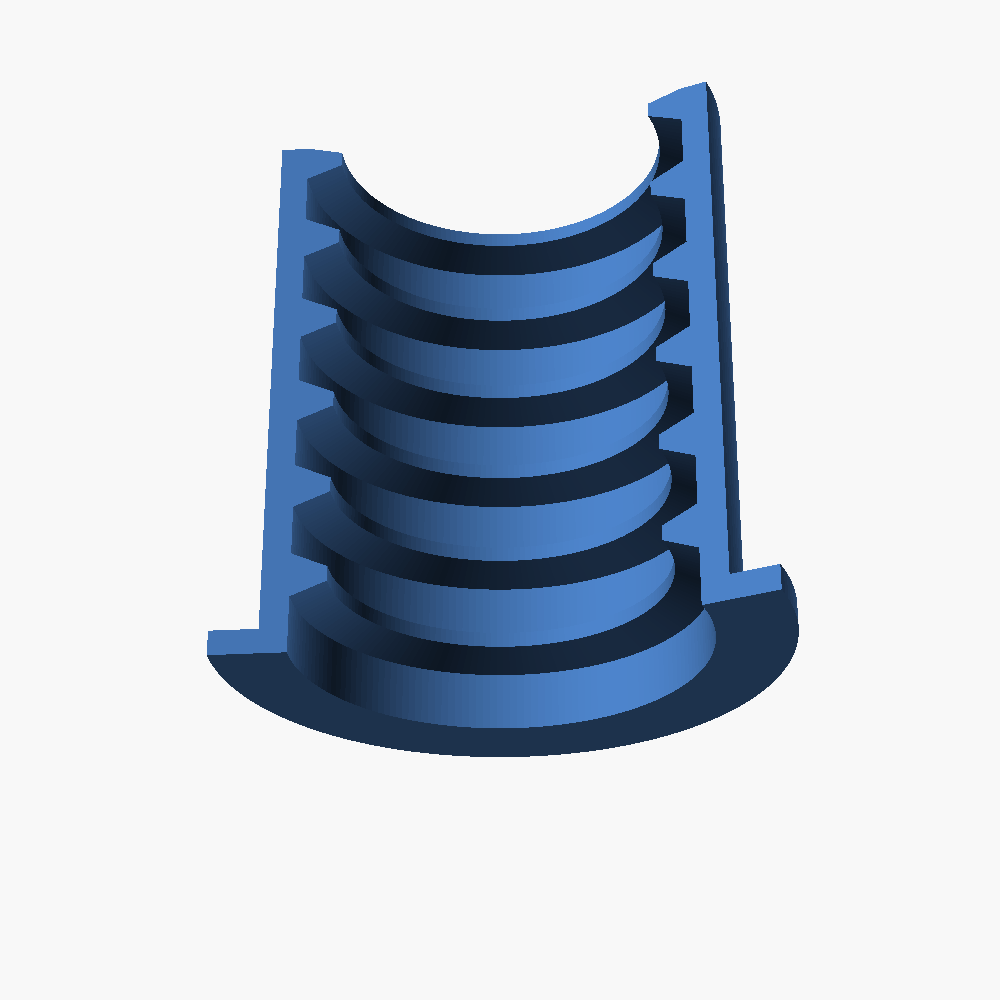
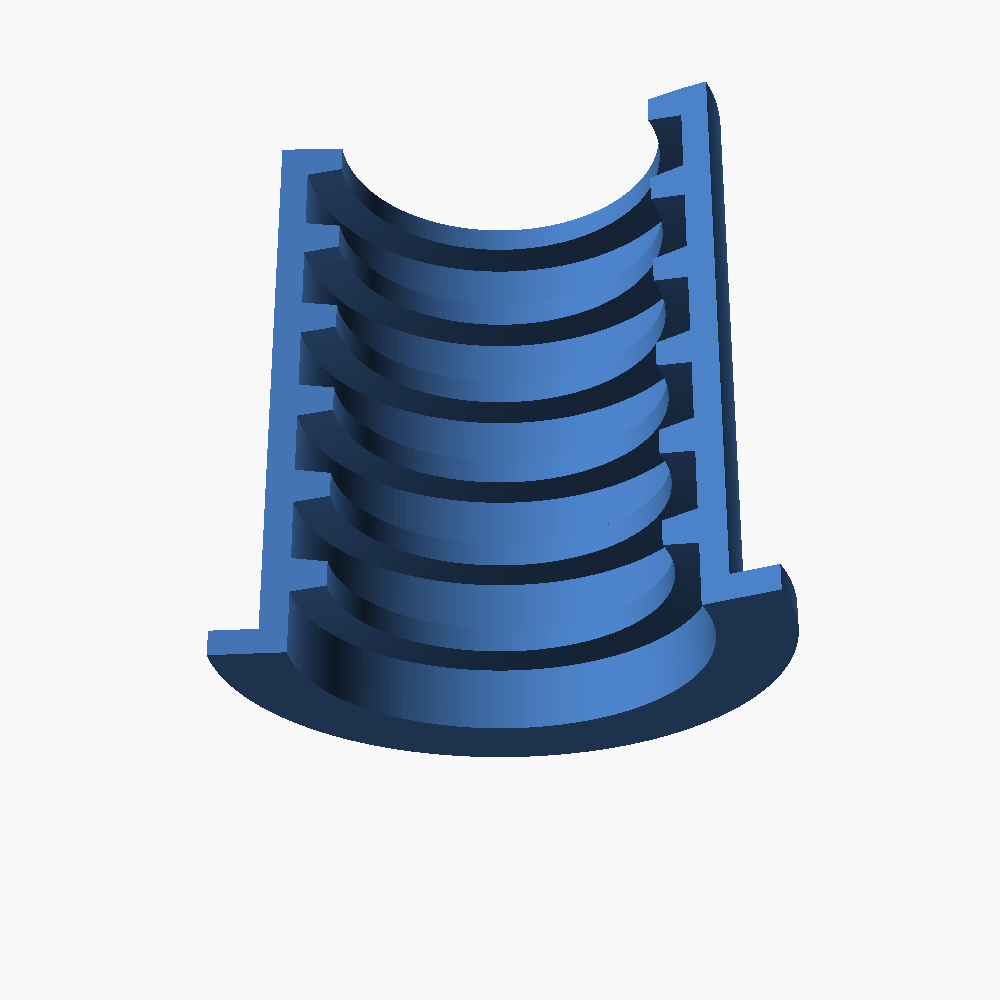
Soften corr_chamfer to 0.1 mm (0.3 was too V-shaped for the 1.2 mm tooth)

diff --git a/README.md b/README.md
@@ -56,7 +56,7 @@ All renders above (the 3D views and the dimensioned drawing) are regenerated by
 | `corr_depth` | `1.4` | How far the grip teeth bite into the conduit grooves (mm) |
 | `corr_width` | `1.2` | Width of each grip tooth along the pipe axis (mm) |
 | `groove_width` | `2.59` | Width of each recess (over a crest) along the axis (mm) |
-| `corr_chamfer` | `0.3` | Bevel on the tooth/recess edges (mm); `0` = sharp square teeth |
+| `corr_chamfer` | `0.1` | Bevel on the tooth/recess edges (mm); `0` = sharp square teeth |
 | `corr_count` | `6` | Number of corrugation periods → sets the length |
 | `coverage_deg` | `200` | Degrees of the pipe circumference covered |
 | `flange_overhang` | `3` | How far the flange extends beyond the pipe width (mm) |
